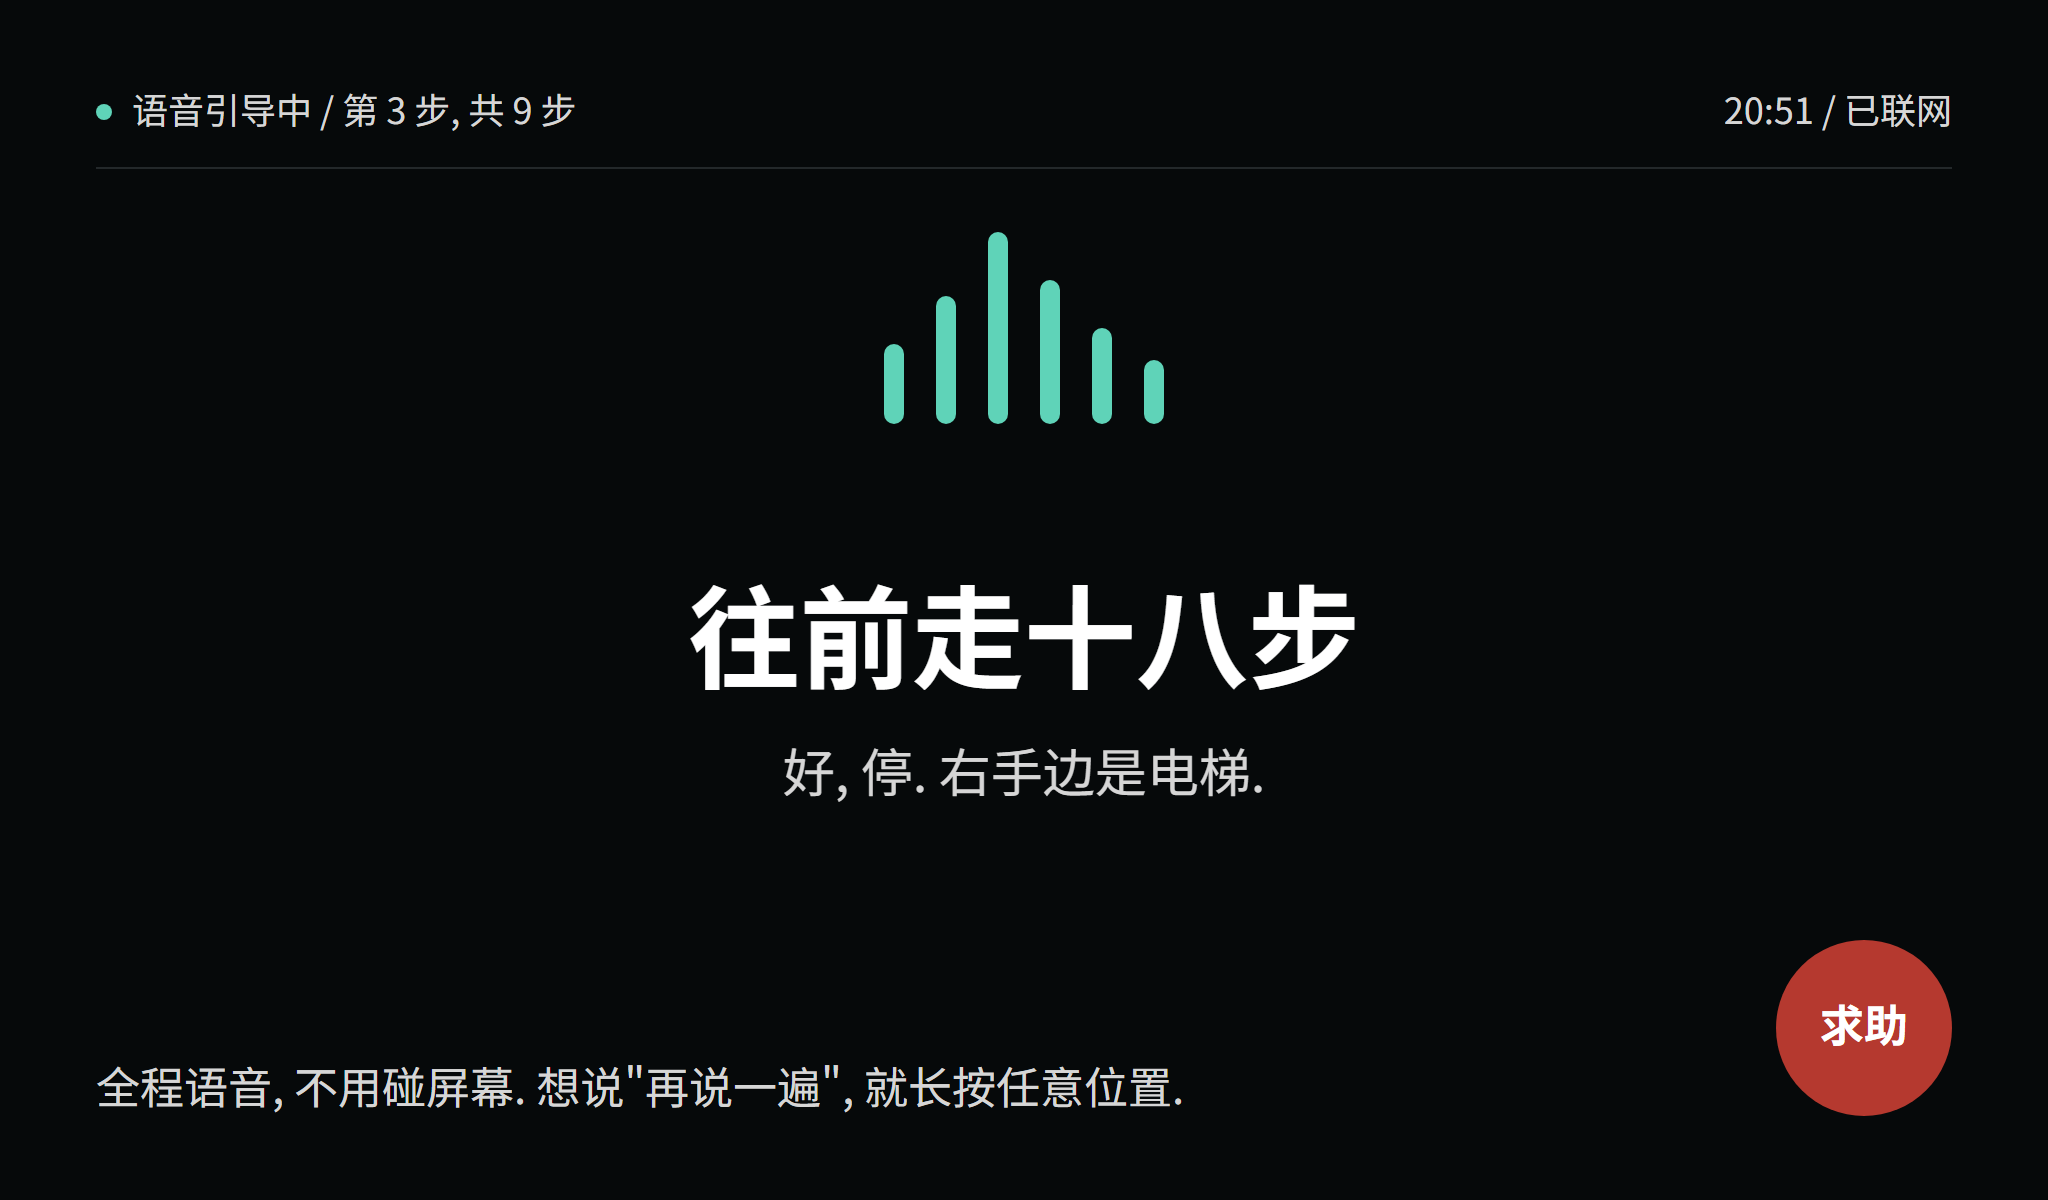
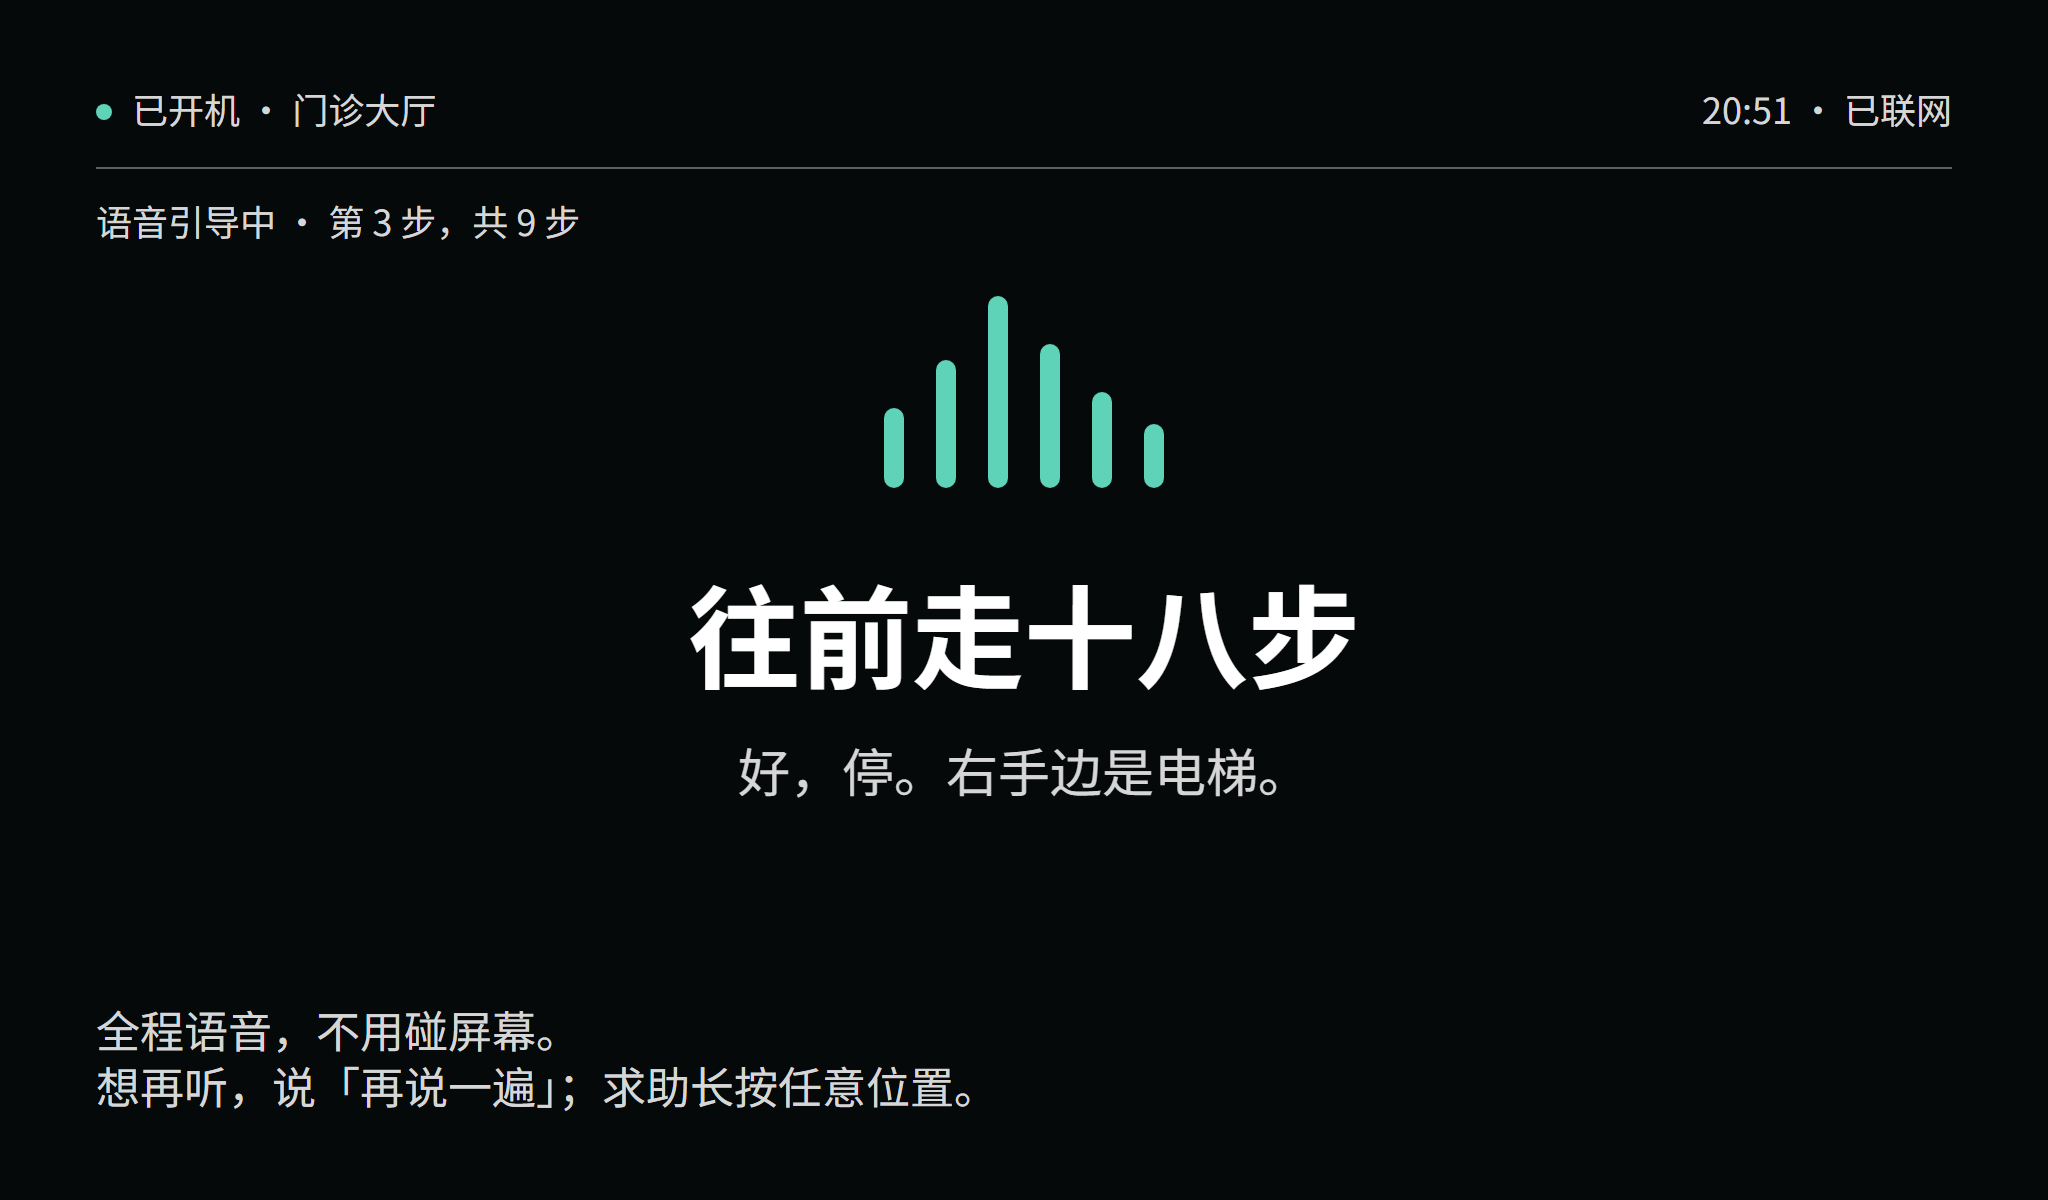
fix(T2): 屏02/03 按 T1 裁定去掉 02 求助键并同步 T4 定稿

diff --git a/02-design/09-高保真规格-02-03.md b/02-design/09-高保真规格-02-03.md
@@ -3,7 +3,8 @@
 > 任务: 11-11 屏 02 视障语音通道 + 屏 03 替我说.
 > 内容来源: `05-屏幕清单.md`. 样式来源: `04-视觉系统.md`. 组件来源: `07-组件库清单.md`.
 > 共用规则见 `08-高保真规格-01-04.md` 第 1 节; 本文件只写 02 / 03 的差异与落位.
-> 文案标点按项目规则转 ASCII, 语义不变; T4 定稿后替换, 不改版式.
+> 文案取 T4 定稿 `05-research/屏幕动作提示-1117.md` 与 `05-屏幕清单.md`; 图内标点用全角, 本文件正文用 ASCII.
+> 02 / 03 的手势按 T1 裁定: 01 长按 2 秒进入; 02 长按 1.5 秒求助, 重播说「再说一遍」; 02 不显示独立求助键.
 > `参考-高保真草稿/` 的 SVG 是布局参考, 不是交付图.
 
 ## 1 共用与差异
@@ -16,9 +17,9 @@
 | 主话 | display 56 / 700, 居中 | h1 40 / 700, 左对齐 | 一屏一个 display |
 | 内容块 | 波形 6 根 + 步数状态 | 芯片 3 x 2 | - |
 | 页脚 | 22 / #D6D6D6, 基线 552 | 22 / ink-500, 基线 552 | 七屏页脚同线 |
-| 求助键 | x=888, y=470, 88 x 88 | 同 | 全屏常驻 |
+| 求助键 | 无独立键; 任意位置长按 1.5s 求助 | x=888, y=470, 88 x 88 | 除 02 外常驻 |
 
-02 没有可点内容, 只有长按求助键. 03 的可点内容只有 6 个芯片与 1 个主按钮. 两屏都不出现第二品牌色.
+02 没有按钮、磁贴、芯片, 也没有独立求助键; 唯一交互是任意位置长按 1.5s 求助, 重播靠说「再说一遍」. 03 的可点内容只有 6 个芯片与 1 个主按钮. 两屏都不出现第二品牌色.
 
 ## 2 屏 02 视障语音通道
 
@@ -27,12 +28,13 @@
 ```text
 y=42   状态条 dark
 y=84   分隔线
-y=116  波形顶 (峰值)
-y=212  波形底
+y=100  任务进度 18
+y=148  波形顶 (峰值)
+y=244  波形底
 y=340  display 56 基线
 y=396  副话 26 基线
-y=470  求助键 88
-y=552  页脚 22 基线
+y=524  页脚 1 22 基线
+y=552  页脚 2 22 基线
 ```
 
 ### 2.2 元素
@@ -40,13 +42,14 @@ y=552  页脚 22 基线
 | 元素 | 位置 / 尺寸 | 样式 | 内容 |
 | --- | --- | --- | --- |
 | 底色 | 1024 x 600 | #06090A | 不用 paper |
-| 状态条 | x=48, y=42, h=28 | 8px 圆点 #5FD3B8, 18px #D6D6D6 | 左: 语音引导中 / 第 3 步, 共 9 步. 右: 20:51 / 已联网 |
-| 分隔线 | x=48..976, y=84 | 1px #23282A | 比 line 暗, 不抢眼 |
-| 波形 | x=442..582, 底 y=212 | 6 根 10 x 高, 间隙 16, 圆头, #5FD3B8 | 高度 40 / 64 / 96 / 72 / 48 / 32 |
+| 状态条 | x=48, y=42, h=28 | 8px 圆点 #5FD3B8, 18px #D6D6D6 | 左: 已开机 · 门诊大厅. 右: 20:51 · 已联网. 不写屏名 |
+| 任务进度 | x=48, y=100, h=24 | 18px #D6D6D6 | 语音引导中 · 第 3 步, 共 9 步. 属任务状态, 不是设备状态 |
+| 分隔线 | x=48..976, y=84 | 1px var(--line-x) #5A5F5C | 用 04 第 6 节已登记的覆盖变量, 不另造 token |
+| 波形 | x=442..582, 底 y=244 | 6 根 10 x 高, 间隙 16, 圆头, #5FD3B8 | 高度 40 / 64 / 96 / 72 / 48 / 32 |
 | 主话 | 居中 x=512, 基线 340 | 56 / 700, #FFFFFF | 往前走十八步 |
 | 副话 | 居中 x=512, 基线 396 | 26 / 400, #D6D6D6 | 好, 停. 右手边是电梯. |
-| 页脚 | x=48, 基线 552 | 22 / 400, #D6D6D6 | 全程语音, 不用碰屏幕. 想说"再说一遍", 就长按任意位置. |
-| 求助键 | x=888, y=470, 88 x 88 | r=44, red-600, 白字 22 / 700 | 求助 |
+| 页脚 1 | x=48, 基线 524 | 22 / 400, #D6D6D6 | 全程语音，不用碰屏幕。 |
+| 页脚 2 | x=48, 基线 552 | 22 / 400, #D6D6D6 | 想再听，说「再说一遍」；求助长按任意位置。 |
 
 波形宽度算式: `6 x 10 + 5 x 16 = 140`, 中心 512, 左起 442.
 
@@ -54,18 +57,19 @@ y=552  页脚 22 基线
 
 | 元素 | 文案 | 汉字数 |
 | --- | --- | --- |
-| 状态左 | 语音引导中 / 第 3 步, 共 9 步 | 9 |
-| 状态右 | 20:51 / 已联网 | 3 |
+| 状态左 | 已开机 · 门诊大厅 | 6 |
+| 状态右 | 20:51 · 已联网 | 3 |
+| 任务进度 | 语音引导中 · 第 3 步, 共 9 步 | 9 |
 | 主话 | 往前走十八步 | 6 |
-| 副话 | 好, 停. 右手边是电梯. | 8 |
-| 页脚 | 全程语音, 不用碰屏幕. 想说"再说一遍", 就长按任意位置. | 22 |
-| 求助键 | 求助 | 2 |
+| 副话 | 好，停。右手边是电梯。 | 8 |
+| 页脚 1 | 全程语音，不用碰屏幕。 | 9 |
+| 页脚 2 | 想再听，说「再说一遍」；求助长按任意位置。 | 16 |
 
 "十八步"是距离, "第 3 步"是引导段序号. 若 T4 认为同一屏两个"步"易混, 状态改为"第 3 段, 共 9 段", 版式不变.
 
 ### 2.4 状态与验收
 
-- 本屏没有按钮 / 磁贴 / 芯片; 唯一可交互件是求助键, 长按 1.5s, 静态图不表现长按.
+- 本屏没有按钮 / 磁贴 / 芯片, 也没有独立求助键; 唯一交互是任意位置长按 1.5s 求助, 静态图不表现长按.
 - 波形是语音状态指示, 不可点, 不画进度条.
 - 黑底 #06090A 与白字 #FFFFFF 对比 20.0:1, 高于 05 要求的 18:1.
 - 页脚 #D6D6D6 on #06090A 对比 13.8:1, 高于 7:1.
@@ -73,10 +77,10 @@ y=552  页脚 22 基线
 
 - [ ] 160px 宽缩略图仍能读出白色主话.
 - [ ] 3 米外能读出"往前走十八步".
-- [ ] 除求助键外, 没有任何带边框 / 底色的可点块.
+- [ ] 屏内没有任何带边框 / 底色的可点块, 右下角无红色求助键.
 - [ ] 黑底无渐变, 无发光, 无第二强调色.
-- [ ] 波形 6 根, 不压状态条, 不压主话.
-- [ ] 状态条 / 页脚 / 求助键与 01 / 03 / 04 同线.
+- [ ] 波形 6 根, 不压任务进度, 不压主话.
+- [ ] 状态条 / 页脚与 01 / 03 / 04 同线; 求助靠长按, 由页脚说明.
 
 ## 3 屏 03 替我说
 
@@ -97,7 +101,7 @@ y=552  底部字幕 22
 
 | 元素 | 位置 / 尺寸 | 样式 | 内容 |
 | --- | --- | --- | --- |
-| 状态条 | x=48, y=42, h=28 | 8px 圆点, 18px, ink-500 | 左: 替我说. 右: 20:51 / 已联网 |
+| 状态条 | x=48, y=42, h=28 | 8px 圆点, 18px, ink-500 | 左: 已开机 · 门诊大厅. 右: 20:51 · 已联网. 不写屏名 |
 | 分隔线 | x=48..976, y=84 | 1px, line | - |
 | 标题 | x=48, 基线 140 | 40 / 700, ink-900 | 替我说 |
 | 标签 | x=192, 基线 140 | 22 / 400, ink-500 | 这句话是放给医生听的 |
@@ -108,7 +112,7 @@ y=552  底部字幕 22
 | 芯片 5 | x=368, y=280, 288 x 88 | 同芯片 2 | 请写给我看 |
 | 芯片 6 | x=688, y=280, 288 x 88 | 同芯片 2 | 我需要人扶一下 |
 | 芯片文字 | 居中, 基线 y+52 | 26 / 400, ink-900 | 单行, 不换行 |
-| 对钩 | 芯片右上, 24 圆, 距边 8 | teal-600 圆 + 白色 2.5px 对钩 | 选中态专用, 不只靠颜色 |
+| 对钩 | 芯片右上, 直径 24, 距边 8 | teal-600 圆 + 白色 1.25px 对钩 | 设计坐标 24; 2x 导出为 48, 不是 24 |
 | 主按钮 | x=48, y=392, 396 x 120 | r=16, teal-600, 白字 26 / 600 | 念给医生听 |
 | 底部字幕 | x=48, 基线 552 | 22 / 400, ink-500 | 王医生: 先抽个血, 再做心电图. |
 | 求助键 | x=888, y=470, 88 x 88 | r=44, red-600, 白字 22 / 700 | 求助 |
@@ -119,6 +123,8 @@ y=552  底部字幕 22
 
 | 元素 | 文案 | 汉字数 |
 | --- | --- | --- |
+| 状态左 | 已开机 · 门诊大厅 | 6 |
+| 状态右 | 20:51 · 已联网 | 3 |
 | 标题 | 替我说 | 3 |
 | 标签 | 这句话是放给医生听的 | 10 |
 | 芯片 1 | 我这两天胸口闷 | 7 |
@@ -128,7 +134,7 @@ y=552  底部字幕 22
 | 芯片 5 | 请写给我看 | 5 |
 | 芯片 6 | 我需要人扶一下 | 7 |
 | 主按钮 | 念给医生听 | 5 |
-| 底部字幕 | 王医生: 先抽个血, 再做心电图. | 12 |
+| 底部字幕 | 王医生：先抽个血，再做心电图。 | 12 |
 | 求助键 | 求助 | 2 |
 
 芯片 1 / 3 为选中态: 胸口闷 + 青霉素过敏, 一句症状 + 一句安全信息, 证明多选. 其余 4 个默认态.
@@ -158,13 +164,13 @@ y=552  底部字幕 22
 | 求助键 | 888 / 470 | 同 | 同 | 同 | 同 |
 | 安全边距 | 48 / 42 | 同 | 同 | 同 | 同 |
 | 底色 | paper | #06090A | paper | paper | 02 是高对比通道 |
-| 内容块顶 | 224 | 116 | 168 | 180 | 按内容层级 |
+| 内容块顶 | 224 | 148 | 168 | 180 | 按内容层级 |
 
 ## 5 同步到 04 / 07
 
 | 项 | 改哪 | 内容 |
 | --- | --- | --- |
-| 芯片选中对钩 | 04 第 5 节, 07 第 2 节 | selected 加右上 24px 对钩, 不只靠颜色 |
+| 芯片选中对钩 | 04 第 5 节, 07 第 2 节 | selected 加右上 24 对钩 (设计坐标), 不只靠颜色 |
 | 芯片 / 金额宫格 / 提示条 / 小暖规格 | 04 第 5 节 | 补齐 07 冲突 #5 |
 | 数据字例外 | 04 第 3 节 | 金额 / 步数可成组 56px, 不算第二个 display |
 | 03 芯片网格 | 04 第 4 节 | 3 x 2 等宽选项组, 不算分栏 |
@@ -179,9 +185,9 @@ y=552  底部字幕 22
 - [ ] sRGB, 无 ICC, 无元数据.
 - [ ] 文件名 `小暖_02_视障语音通道@2x.png`, `小暖_03_替我说@2x.png`.
 - [ ] 02 黑底放大到 2x 无 banding, 白字边缘不发灰.
-- [ ] 03 选中对钩在 2x 下仍是 24px, 不糊.
+- [ ] 03 选中对钩设计坐标 24, 2x 导出应为 48px; 若图上是 24 就是被缩小了一半, 打回.
 - [ ] 缩到 160px 宽, 02 仍能读出主话, 03 仍能分出 6 个芯片.
-- [ ] 七张并排: 状态条 / 页脚 / 求助键在同一条线.
+- [ ] 七张并排: 状态条 / 页脚在同一条线; 02 无求助键, 长按整屏.
 - [ ] 无第二品牌色, 无 emoji, 无系统默认字体.
 
 ## 7 组件实例
@@ -189,7 +195,7 @@ y=552  底部字幕 22
 | 屏 | 元素 | 组件 |
 | --- | --- | --- |
 | 02 / 03 | 状态条 | `.status` (02 用 dark tone) |
-| 02 / 03 | 求助键 | `.btn--danger` |
+| 03 | 求助键 | `.btn--danger` (02 无独立键, 长按整屏) |
 | 03 | 6 个芯片 | `.chip`, 2 个 `state=selected` |
 | 03 | 主按钮 | `.btn--primary` |
 

diff --git a/02-design/07-组件库清单.md b/02-design/07-组件库清单.md
@@ -17,7 +17,7 @@
 | 7 | 状态条 `.status` | 04 第 5 节: 高 28, 8px 圆点 + 18px 文字 | [ ] | [ ] | [ ] | [ ] | 01-05, E1 |
 | 8 | 提示条 `.notice` | 04 第 5 节: 高 56, 圆角 12, amber-100 底 + amber-600 左条, 文字 22 | [ ] | [ ] | [ ] | [ ] | E1 |
 | 9 | 小暖表情 `.warm` | 04 第 8 节: 直径 96, 5 表情 | [ ] | [ ] | [ ] | [ ] | 05 |
-| +1 | 求助键 `.btn--danger` | 04 第 5 节: 88 x 88 圆形, red-600, 右下角, 长按 1.5s | [ ] | [ ] | [ ] | [ ] | 01-06, E1 |
+| +1 | 求助键 `.btn--danger` | 04 第 5 节: 88 x 88 圆形, red-600, 右下角, 长按 1.5s | [ ] | [ ] | [ ] | [ ] | 01, 03, 04, 05, 06, E1 |
 
 ## 2 四态定义
 
@@ -32,7 +32,7 @@
 | 屏 | 组件 |
 | --- | --- |
 | 01 入口分流 | 磁贴 3, 状态条, 求助键 |
-| 02 视障语音通道 | 状态条 (dark), 求助键 |
+| 02 视障语音通道 | 状态条 (dark); 无独立求助键, 任意位置长按 1.5s |
 | 03 替我说 | 芯片 6, 主按钮, 状态条, 求助键 |
 | 04 复述校验 | 信息卡, 主按钮, 次按钮, 状态条, 求助键 |
 | 05 医保三宫格 | 金额宫格, 信息卡, 状态条, 求助键, 小暖 |
@@ -55,7 +55,7 @@
 
 | # | 冲突 | 本清单暂按 | 要改哪 |
 | --- | --- | --- | --- |
-| 1 | 06 G2 列 9 个组件, 漏了每屏都有的求助键; 06 G3 又要求每屏 88 x 88 求助键 | 9 + 1, 求助键单列变体 | 06:64 补第 10 个, 或明确算主按钮 danger 变体 |
+| 1 | 06 G2 列 9 个组件, 漏了常驻右下角的求助键; 06 G3 又要求 88 x 88 求助键 | 9 + 1, 求助键单列变体; 02 无独立键, 长按整屏 | 06:64 补第 10 个, 或明确算主按钮 danger 变体 |
 | 2 | 04 第 5 节 状态条 14px vs 04 第 9 节 不小于 18px | 18px | 已解决（bc1ba9d，14→18）：04 第 5 节状态条改为 18px，与 04 第 9 节一致 |
 | 3 | 04 第 3 节 一屏一个 display vs 05 屏 05 三个 56px 数字 | 3 个 56px 数据数字 | 已解决（bc1ba9d，04 第 3 节加数据展示例外）：金额 / 步数可成组 56px，不算第二个 display，屏 05 按此例外 |
 | 4 | 04 第 4 节 间距 8 的倍数 vs 06 G2 间距 4 的倍数 | 8 | 06:61 |
@@ -63,6 +63,8 @@
 | 6 | 06 家属端是手机 UI, 却算进 7 张设备屏; 状态条和求助键是否出现没写 | 手机系统栏; 求助键按 G3 暂留 | 05 屏 06, 06 屏数口径 |
 | 7 | 已统一: 02 视障通道固定用高对比覆盖 (#06090A 底 + 白字), 04 第 9 节的纯黑限制不适用 | 02 按高对比模式 | 无 |
 | 8 | 已统一: 04 第 3 节 cap 只给免责 / 法律小字 / 状态条; 屏内页脚用 22 (sm), 与 08 / 09 一致 | 页脚 22 | 无 |
+| 9 | 04 第 2 节 `ink-500` 只用于 22px 及以上 vs 状态条 18px 灰字 | 18px 例外 | 已解决（本次）：04 第 2 节补「状态条 18px 是唯一例外」, 理由是不承载任务信息 |
+| 10 | 02 分隔线 #23282A 在 04 无对应变量; 现有 `--line-x` 是 #5A5F5C | 改用 `--line-x` | 已解决（本次）：09 第 2.2 节改用 `--line-x`, 不另造 token |
 
 ## 6 签字
 

diff --git a/02-design/04-视觉系统.md b/02-design/04-视觉系统.md
@@ -31,7 +31,7 @@
 | `--green-600` | `#2C7A52` | 完成、确认 | — |
 | `--green-100` | `#DDEDE3` | 完成底 | — |
 
-对比度实测: `ink-900` on `paper` = 16.1:1; `teal-600` on `surface` = 6.1:1; 白字 on `teal-600` = 6.1:1; `red-600` on `red-100` = 4.6:1; `ink-500` on `paper` = 5.1:1. 承载信息的正文 >= 7:1; 按钮文字 >= 4.5:1; `ink-500` 只用于 22px 及以上的辅助说明; `red-600` on `red-100` 只用于大图形与 22px 以上文字.
+对比度实测: `ink-900` on `paper` = 16.1:1; `teal-600` on `surface` = 6.1:1; 白字 on `teal-600` = 6.1:1; `red-600` on `red-100` = 4.6:1; `ink-500` on `paper` = 5.1:1. 承载信息的正文 >= 7:1; 按钮文字 >= 4.5:1; `ink-500` 只用于 22px 及以上的辅助说明, **状态条 18px 是唯一例外** (只放设备 / 位置 / 时间 / 连接, 不承载任务信息, 对比 5.1:1 已高于辅助文字 4.5:1 的门槛); `red-600` on `red-100` 只用于大图形与 22px 以上文字.
 
 ## 3 字阶（1024×600 设备屏，基准 20px）
 
@@ -65,10 +65,10 @@
 | --- | --- | --- | --- |
 | 主按钮 `.btn--primary` | 120px | 16px | 深青实底、白字 26px（body） |
 | 次按钮 `.btn--ghost` | 120px | 16px | 透明底、1.5px 边 |
-| 求助键 `.btn--danger` | 88×88 | 圆形 | 暗红，**只在右下角**，长按 1.5s，每一屏都在 |
+| 求助键 `.btn--danger` | 88×88 | 圆形 | 暗红，**只在右下角**，长按 1.5s；除 02 外每屏都在，02 无独立键，任意位置长按 1.5s 求助 |
 | 磁贴 `.tile` | 232px | 22px | 图标 64 + 标题 40（h1）+ 说明 22（sm） |
 | 卡片 `.card` | 自适应 | 20px | 白底 + 1px 边 + 单层影 |
-| 状态条 | 28px | — | 18px 灰字，左侧一个 8px 圆点 |
+| 状态条 | 28px | — | 18px 灰字，左侧一个 8px 圆点; 只放设备 / 位置 / 时间 / 连接, 不写屏名与安抚话 |
 | 芯片 `.chip` | 88px | 16px | 白底 + 1px 边, 文字 26px; 选中 teal-100 底 + 1.5px teal-600 边 + 右上 24px 对钩, 不只靠颜色 |
 | 金额宫格 `.amount` | 自适应 | 20px | 3 个等宽格, 数字 56px 等宽, 标签 22px; 格间 1px 线 |
 | 提示条 `.notice` | 56px | 12px | amber-100 底 + 4px amber-600 左条, 文字 22px ink-900, 不可点 |

diff --git a/02-design/参考-高保真草稿/README.md b/02-design/参考-高保真草稿/README.md
@@ -3,7 +3,7 @@
 2026-11-10 / 11-12 的 01-04 布局草稿, 给 Figma 落位和 T3 连原型对坐标.
 
 - `01-入口分流.svg`, `04-复述校验.svg`: 11-10.
-- `02-视障语音通道.svg`, `03-替我说.svg`: 11-12. 02 看黑底高对比, 03 看选中对钩.
+- `02-视障语音通道.svg`, `03-替我说.svg`: 11-12, 11-18 按 T1 裁定同步. 02 看黑底高对比, 无独立求助键, 长按整屏; 03 看选中对钩.
 - 不是交付图, 不要直接放进 `04-deliverables/01-高保真图/`.
 - 画布 1024 x 600, 导出目标 2048 x 1200 @2x.
 - 文案取 T4 定稿 `05-research/屏幕动作提示-1117.md`; 图内标点用全角, 规格文档用 ASCII.
